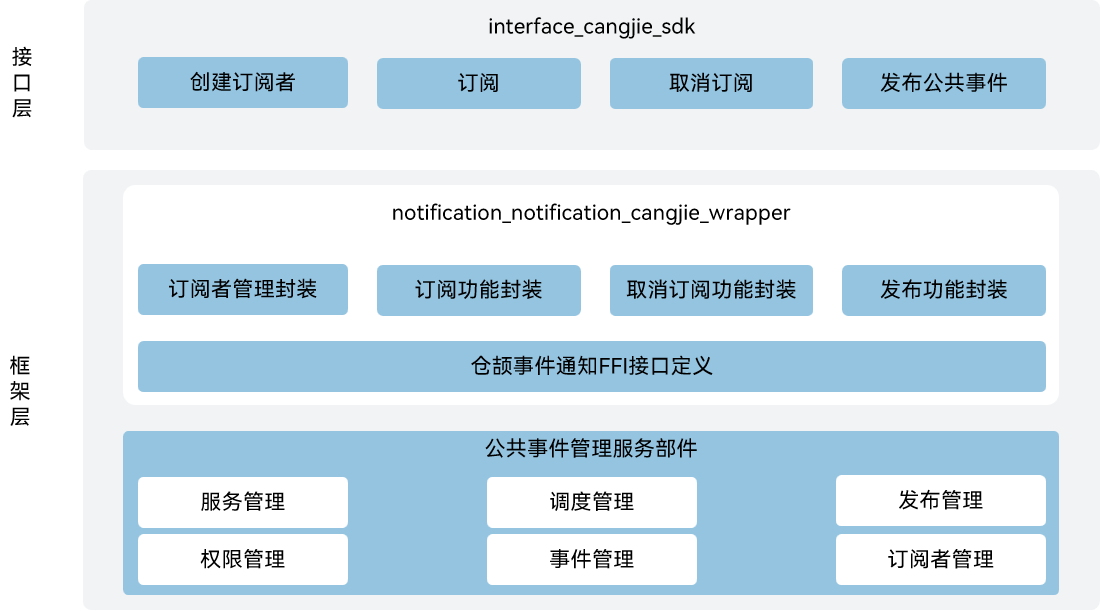
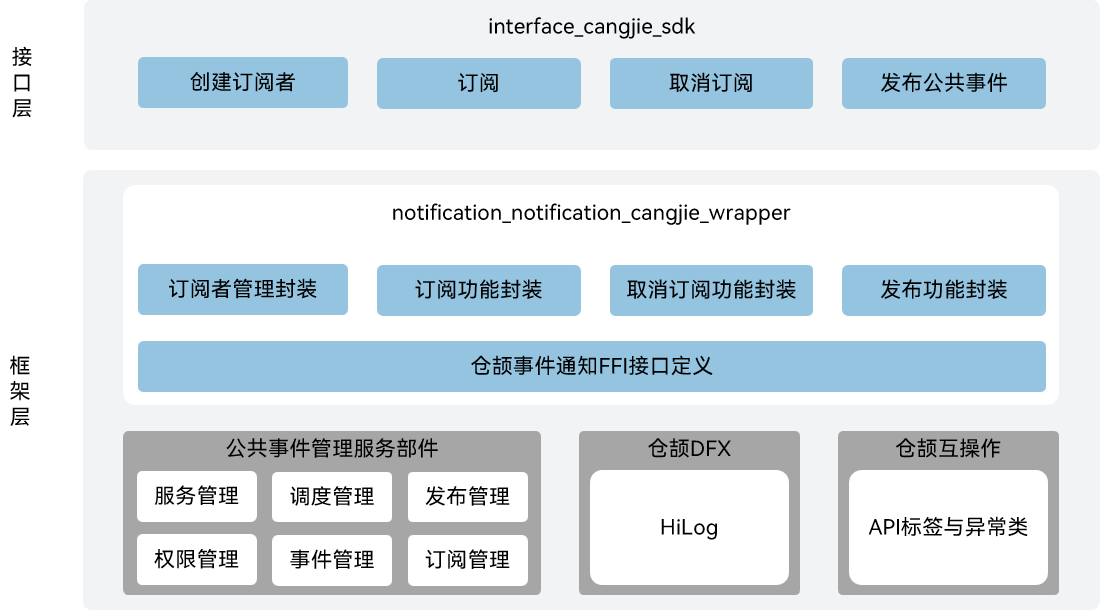
fix readme

diff --git a/README.md b/README.md
@@ -2,15 +2,15 @@
 
 ## Introduction
 
-The notification_notification_cangjie_wrapper is a Cangjie API encapsulated on OpenHarmony based on the capabilities of the Common Event Service (CES) Subsystem. OpenHarmony provides a CES for applications to subscribe to, publish, and unsubscribe from common events. The currently open CommonEvent apis only support standard devices.
+The notification_notification_cangjie_wrapper is a Cangjie API encapsulated on OpenHarmony based on the capabilities of the notification subsystem. OpenHarmony provides a Common Event Service (CES) for applications to subscribe to, publish, and unsubscribe from common events. The currently open notification Cangjie API only supports standard devices.
 
-Common events in OpenHarmony are classified into system common events and custom common events.
+Common events can be divided into system common events and custom common events.
 
-- System common event: sent by the system based on system policies to the applications that have subscribed to the event. This type of event is typically system events published by key system services, such as HAP installation, update, and uninstallation.
+- System common events: The system collects event information and sends it to user programs that have subscribed to the event according to system policies. For example: system events published by key system services, HAP installation, update, uninstallation, etc.
 
-- Custom common events: customized by applications to implement cross-application event communication.
+- Custom common events: Applications customize some common events to implement cross-application event communication capabilities.
 
-Each application can subscribe to common events as required. After your application subscribes to a common event, the system sends it to your application every time the event is published. Such an event may be published by the system, other applications, or your own application.
+Each application can subscribe to common events as needed. If an application subscribes successfully and the corresponding subscribed common event is published, the system will send it to the application. These common events may come from the system, other applications, and the application itself.
 
 ## System Architecture
 
@@ -18,50 +18,47 @@ Each application can subscribe to common events as required. After your applicat
 
 ![notification_cangjie_wrapper Architecture](figures/notification_cangjie_wrapper_architecture_en.png)
 
-As shown in the architecture pictures, the notification_notification_cangjie_wrapper provides interfaces for publishing common events, creating subscribers, subscribing, unsubscribing, etc.
+As shown in the architecture diagram, the notification Cangjie API provides the capabilities to publish common events, create subscribers, subscribe, and unsubscribe.
 
-- createSubscriber: use subscription information to create a common event subscriber, subscription information can specify the common events the subscriber wants to subscribe to, the permissions required from the publisher, the subscriber's priority, etc.
-
-- subscribe: complete the subscription for the specified subscriber.
-
-- unsubscribe: cancel the subscription for the specified subscriber.
-
-- publish: publish a common event with the specified name and attributes.
-
-- Cangjie Notification FFI Interface Definition: Responsible for defining the C-interoperable Cangjie interface, which is used to realize Cangjie's notification capabilities.
-
-- Common Event Manager Service: Responsible for providing the basic common event fuctions, and encapsulating the C interface for interoperation with Cangjie.
+- Create Subscriber: Create a common event subscriber based on subscription information. The subscription information can specify the common events to subscribe to, the permissions required from the publisher, and set the subscriber's priority.
+- Subscribe: Complete the subscription setting for the specified subscriber.
+- Unsubscribe: Cancel the subscription capability of the specified subscriber.
+- Publish: Publish a common event with the specified name and attributes.
+- Cangjie Notification FFI Interface Definition: Responsible for defining C language interoperation Cangjie interfaces, used to implement Cangjie notification capabilities.
+- Common Event Manager Service: Responsible for providing common event basic services, encapsulating C interfaces for interoperation with Cangjie.
+- Cangjie DFX: Provides a logging system, enabling applications/services to output log content according to specified levels, identifiers, and format strings.
+- Cangjie Interop: Provides APILevel and Businessexception.
 
 ## Directory Structure
 
 ```
 base/notification/notification_cangjie_wrapper
 ├── figures         # architecture pictures
-└── ohos            # Cangjie notification code
-│   ├── common_event_data
-│   ├── common_event_manager
-│   ├── common_event_publish_data
-│   ├── common_event_subscribe_info
-│   ├── common_event_subscriber
-│   └── value_type
+└── ohos            # Cangjie notification interface implementation
+│   ├── common_event_data           # Common event data module
+│   ├── common_event_manager        # Common event management module
+│   ├── common_event_publish_data   # Common event publish data module
+│   ├── common_event_subscribe_info # Common event subscribe info module
+│   ├── common_event_subscriber     # Common event subscriber module
+│   └── value_type                  # Common event multi-value type implementation
 └── test            # Cangjie notification test cases
 ```
 
 ## Usage
 
-The following features are provided:
+The current notification Cangjie API provides the following functions:
 
-- create subscriber.
-- publish common evnet.
-- subscribe common event.
-- unsubscribe common event.
+- Publish common events.
+- Create subscribers.
+- Subscribe to common events.
+- Unsubscribe.
 
-Compare to the ArkTs, the following features are not provided:
+Compared to ArkTS, the following functions are not supported:
 
-- send and process events between different threads within the same process or within the same thread.
-- distributed notification service.
+- The ability to send and process events between different threads within the same process or within the same thread.
+- User notification service.
 
-For relevant API of CommonEventManager, please refer to [ohos.common_event_manager](https://gitcode.com/openharmony-sig/arkcompiler_cangjie_ark_interop/blob/master/doc/API_Reference/source_en/apis/BasicServicesKit/cj-apis-common_event_manager.md); for relevant guidelines, please refer to [CommonEvent Development Guide](https://gitcode.com/openharmony-sig/arkcompiler_cangjie_ark_interop/tree/master/doc/Dev_Guide/source_en/basic-services/common-event).
+For common event related APIs, please refer to [ohos.common_event_manager](https://gitcode.com/openharmony-sig/arkcompiler_cangjie_ark_interop/blob/master/doc/API_Reference/source_en/apis/BasicServicesKit/cj-apis-common_event_manager.md). For related guidelines, please refer to [Common Event Development Guide](https://gitcode.com/openharmony-sig/arkcompiler_cangjie_ark_interop/tree/master/doc/Dev_Guide/source_en/basic-services/common-event).
 
 ## Code Contribution
 
@@ -69,4 +66,6 @@ Developers are welcome to contribute code, documentation, etc. For specific cont
 
 ## Repositories Involved
 
-[notification_common_event_service](https://gitee.com/openharmony/notification_common_event_service/blob/master)
+[arkcompiler_cangjie_ark_interop](https://gitcode.com/openharmony-sig/arkcompiler_cangjie_ark_interop)
+[hiviewdfx_hiviewdfx_cangjie_wrapper](https://gitcode.com/openharmony-sig/hiviewdfx_hiviewdfx_cangjie_wrapper)
+[notification_common_event_service](https://gitcode.com/openharmony/notification_common_event_service)

diff --git a/README_zh.md b/README_zh.md
@@ -2,7 +2,7 @@
 
 ## 简介
 
-事件通知仓颉接口是在 OpenHarmony 上基于事件通知子系统能力之上封装的仓颉API。OpenHarmony通过CES（Common Event Service，公共事件服务）为应用程序提供订阅、发布、退订公共事件的能力。当前开放的事件通知仓颉接口仅支持standard设备。
+事件通知仓颉接口是在OpenHarmony上基于事件通知子系统能力之上封装的仓颉API。OpenHarmony通过CES（Common Event Service，公共事件服务）为应用程序提供订阅、发布、退订公共事件的能力。当前开放的事件通知仓颉接口仅支持standard设备。
 
 公共事件可分为系统公共事件和自定义公共事件。
 
@@ -21,16 +21,13 @@
 如架构图所示，事件通知仓颉接口提供发布公共事件、创建订阅者、订阅、取消订阅的能力。
 
 - 创建订阅者：根据订阅信息创建公共事件订阅者，其中订阅信息可以指定订阅的公共事件，要求发布者需要具备的权限，设定订阅者的优先级等。
-
 - 订阅：完成指定订阅者的订阅设定。
-
 - 取消订阅：取消指定订阅者的订阅能力。
-
 - 发布公共事件：发布指定名称与属性的公共事件。
-
-- 仓颉事件通知FFI接口定义： 负责定义C互操作仓颉接口，用于实现仓颉事件通知能力。
-
-- 公共事件管理服务：负责提供公共事件基础服务，封装C接口提供给仓颉进行互操作。
+- 仓颉事件通知FFI接口定义： 负责定义C语言互操作仓颉接口，用于实现仓颉事件通知能力。
+- 公共事件管理服务：负责提供公共事件基础服务，封装C语言接口提供给仓颉进行互操作。
+- 仓颉DFX：提供日志系统，使应用/服务可以按照指定级别、标识和格式字符串输出日志内容。
+- 仓颉互操作：提供API标签与异常类。
 
 ## 目录
 
@@ -38,12 +35,12 @@
 base/notification/notification_cangjie_wrapper
 ├── figures         # 存放README中的架构图
 └── ohos            # 仓颉事件通知接口实现
-│   ├── common_event_data
-│   ├── common_event_manager
-│   ├── common_event_publish_data
-│   ├── common_event_subscribe_info
-│   ├── common_event_subscriber
-│   └── value_type
+│   ├── common_event_data           # 公共事件数据模块
+│   ├── common_event_manager        # 公共事件管理模块
+│   ├── common_event_publish_data   # 公共事件发布数据模块
+│   ├── common_event_subscribe_info # 公共事件订阅信息模块
+│   ├── common_event_subscriber     # 公共事件订阅者模块
+│   └── value_type                  # 公共事件多值类型实现
 └── test            # 仓颉事件通知测试用例
 ```
 
@@ -69,4 +66,6 @@ base/notification/notification_cangjie_wrapper
 
 ## 相关仓
 
-[公共事件子系统](https://gitee.com/openharmony/notification_common_event_service/blob/master/README_zh.md)
+[arkcompiler_cangjie_ark_interop](https://gitcode.com/openharmony-sig/arkcompiler_cangjie_ark_interop)
+[hiviewdfx_hiviewdfx_cangjie_wrapper](https://gitcode.com/openharmony-sig/hiviewdfx_hiviewdfx_cangjie_wrapper)
+[notification_common_event_service](https://gitcode.com/openharmony/notification_common_event_service)
